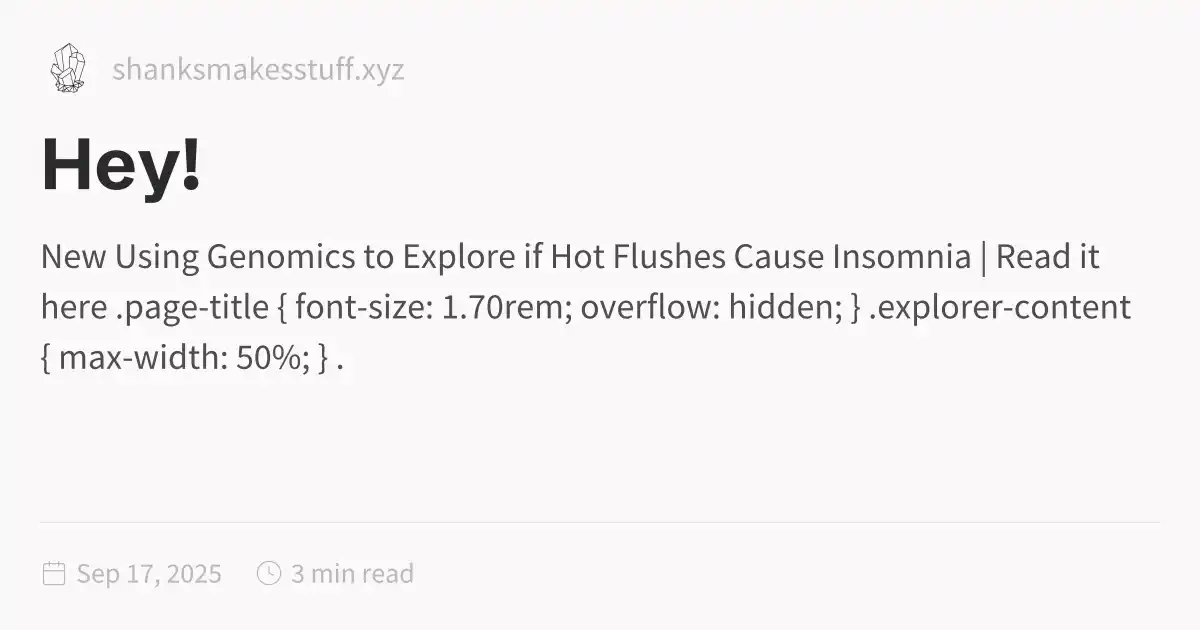
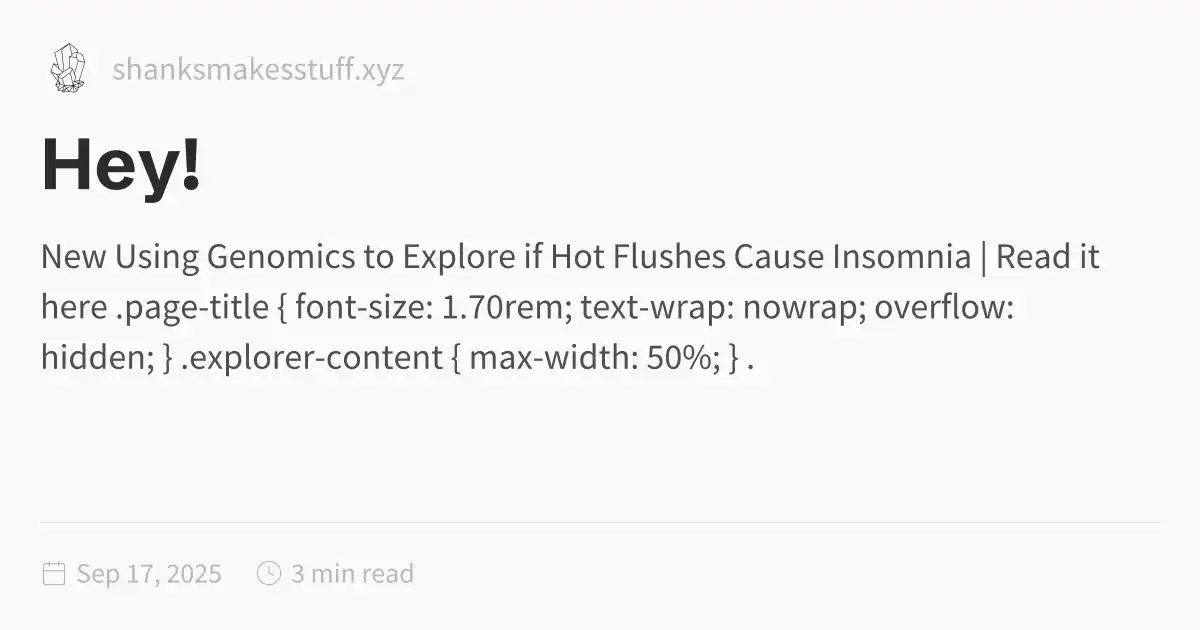
2025-09-17_2341

Changed region(s): [[0.0308, 0.5429, 0.6167, 0.6032], [0.4933, 0.4524, 0.9558, 0.5127]]

diff --git a/Hey!.html b/Hey!.html
@@ -1,5 +1,5 @@
 <!DOCTYPE html>
-<html lang="en"><head><title>Hey!</title><meta charset="utf-8"/><link rel="preconnect" href="https://fonts.googleapis.com"/><link rel="preconnect" href="https://fonts.gstatic.com"/><link rel="stylesheet" href="https://fonts.googleapis.com/css2?family=Schibsted Grotesk:wght@400;700&amp;family=Source Sans Pro:ital,wght@0,400;0,600;1,400;1,600&amp;family=IBM Plex Mono:wght@400;600&amp;display=swap"/><link rel="preconnect" href="https://cdnjs.cloudflare.com" crossorigin="anonymous"/><meta name="viewport" content="width=device-width, initial-scale=1.0"/><meta name="og:site_name" content="ShanksMakesStuff"/><meta property="og:title" content="Hey!"/><meta property="og:type" content="website"/><meta name="twitter:card" content="summary_large_image"/><meta name="twitter:title" content="Hey!"/><meta name="twitter:description" content="New Using Genomics to Explore if Hot Flushes Cause Insomnia | Read it here .page-title { font-size: 1.70rem; overflow: hidden; } .explorer-content { max-width: 50%; } ."/><meta property="og:description" content="New Using Genomics to Explore if Hot Flushes Cause Insomnia | Read it here .page-title { font-size: 1.70rem; overflow: hidden; } .explorer-content { max-width: 50%; } ."/><meta property="og:image:alt" content="New Using Genomics to Explore if Hot Flushes Cause Insomnia | Read it here .page-title { font-size: 1.70rem; overflow: hidden; } .explorer-content { max-width: 50%; } ."/><meta property="twitter:domain" content="shanksmakesstuff.xyz"/><meta property="og:url" content="https://shanksmakesstuff.xyz/Hey!"/><meta property="twitter:url" content="https://shanksmakesstuff.xyz/Hey!"/><link rel="icon" href="./static/icon.png"/><meta name="description" content="New Using Genomics to Explore if Hot Flushes Cause Insomnia | Read it here .page-title { font-size: 1.70rem; overflow: hidden; } .explorer-content { max-width: 50%; } ."/><meta name="generator" content="Quartz"/><link href="./index.css" rel="stylesheet" type="text/css" spa-preserve/><style>.expand-button {
+<html lang="en"><head><title>Hey!</title><meta charset="utf-8"/><link rel="preconnect" href="https://fonts.googleapis.com"/><link rel="preconnect" href="https://fonts.gstatic.com"/><link rel="stylesheet" href="https://fonts.googleapis.com/css2?family=Schibsted Grotesk:wght@400;700&amp;family=Source Sans Pro:ital,wght@0,400;0,600;1,400;1,600&amp;family=IBM Plex Mono:wght@400;600&amp;display=swap"/><link rel="preconnect" href="https://cdnjs.cloudflare.com" crossorigin="anonymous"/><meta name="viewport" content="width=device-width, initial-scale=1.0"/><meta name="og:site_name" content="ShanksMakesStuff"/><meta property="og:title" content="Hey!"/><meta property="og:type" content="website"/><meta name="twitter:card" content="summary_large_image"/><meta name="twitter:title" content="Hey!"/><meta name="twitter:description" content="New Using Genomics to Explore if Hot Flushes Cause Insomnia | Read it here .page-title { font-size: 1.70rem; text-wrap: nowrap; overflow: hidden; } .explorer-content { max-width: 50%; } ."/><meta property="og:description" content="New Using Genomics to Explore if Hot Flushes Cause Insomnia | Read it here .page-title { font-size: 1.70rem; text-wrap: nowrap; overflow: hidden; } .explorer-content { max-width: 50%; } ."/><meta property="og:image:alt" content="New Using Genomics to Explore if Hot Flushes Cause Insomnia | Read it here .page-title { font-size: 1.70rem; text-wrap: nowrap; overflow: hidden; } .explorer-content { max-width: 50%; } ."/><meta property="twitter:domain" content="shanksmakesstuff.xyz"/><meta property="og:url" content="https://shanksmakesstuff.xyz/Hey!"/><meta property="twitter:url" content="https://shanksmakesstuff.xyz/Hey!"/><link rel="icon" href="./static/icon.png"/><meta name="description" content="New Using Genomics to Explore if Hot Flushes Cause Insomnia | Read it here .page-title { font-size: 1.70rem; text-wrap: nowrap; overflow: hidden; } .explorer-content { max-width: 50%; } ."/><meta name="generator" content="Quartz"/><link href="./index.css" rel="stylesheet" type="text/css" spa-preserve/><style>.expand-button {
   position: absolute;
   display: flex;
   float: right;
@@ -116,7 +116,7 @@ pre:hover > .expand-button {
   padding: 0 12px;
   font-size: 14px;
 }
[2 lines of base64/hex data omitted]
 <div class="callout-title">
                   <div class="callout-icon"></div>
                   <div class="callout-title-inner"><p>New</p></div>
@@ -132,6 +132,7 @@ pre:hover > .expand-button {
 	<style> 
 		.page-title { 
 			font-size: 1.70rem; 
+			text-wrap: nowrap; 
 			overflow: hidden; 
 		}
 		.explorer-content { 
